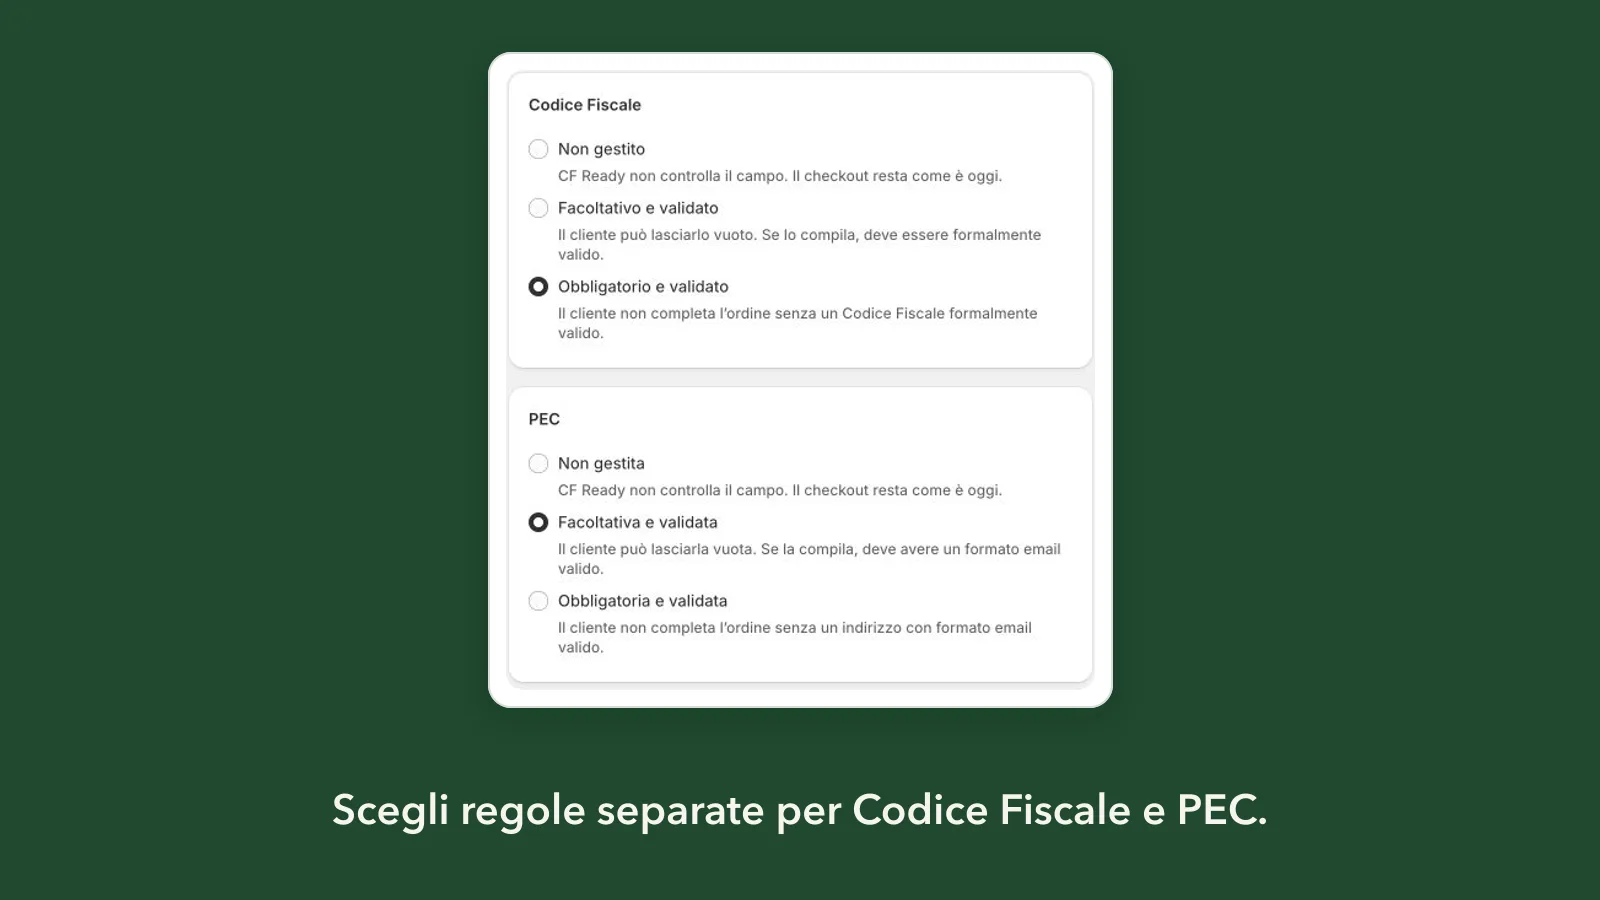
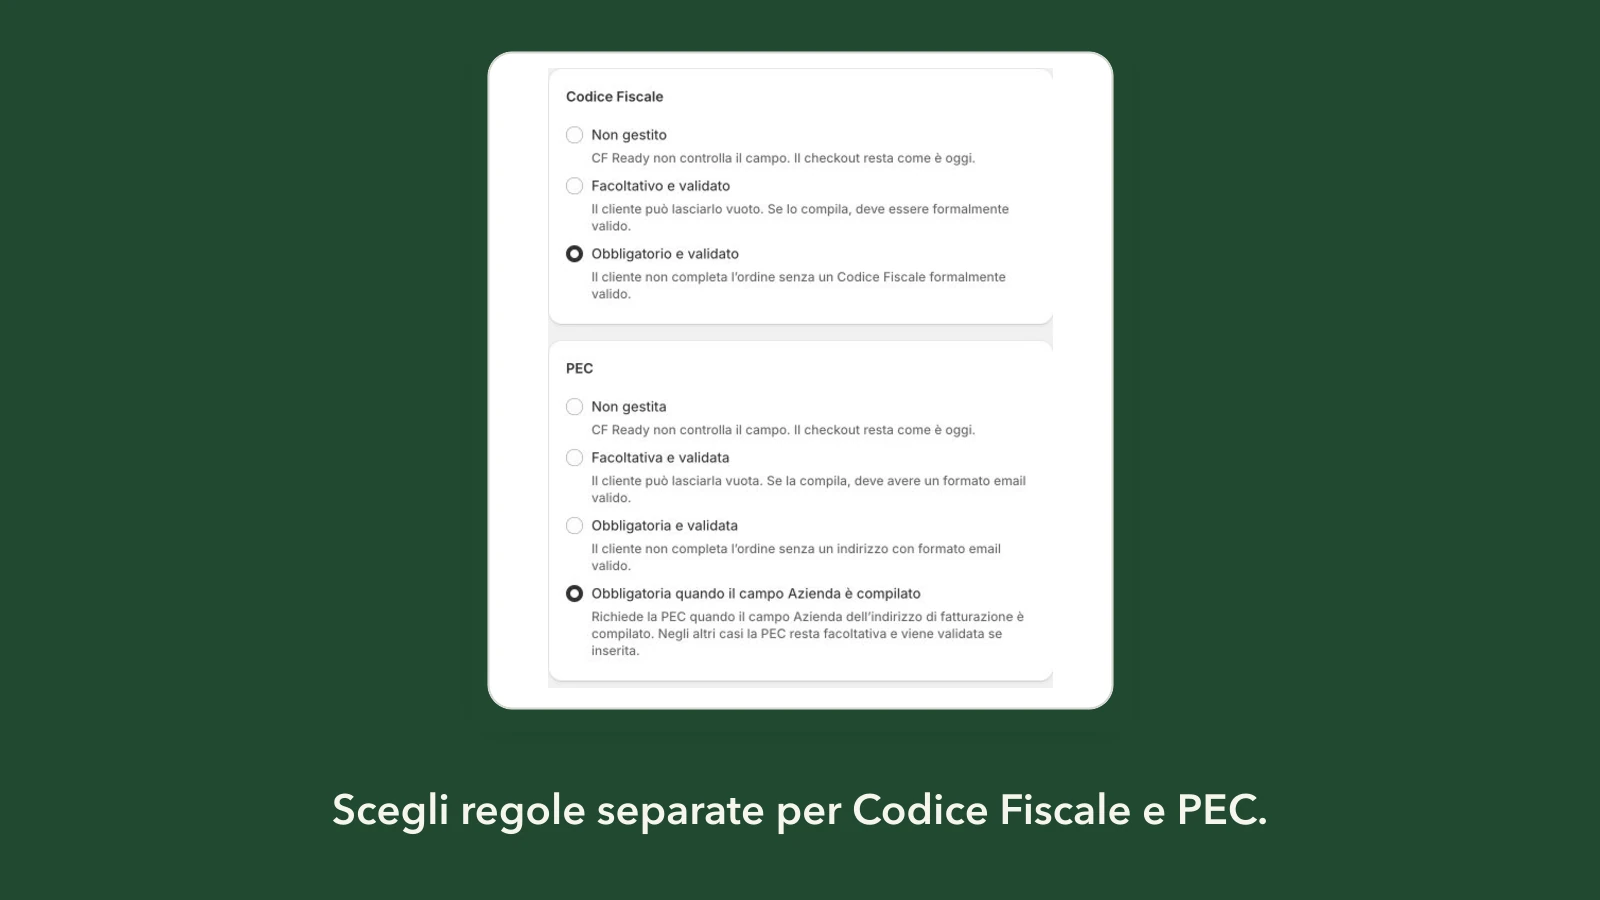
docs: aggiorna il sito per la PEC condizionale

Changed region(s): [[0.3125, 0.0933, 0.6562, 0.3733], [0.3125, 0.4044, 0.6562, 0.7467], [0.3125, 0.7778, 0.6875, 0.8089]]

diff --git a/site/index.html b/site/index.html
@@ -103,7 +103,7 @@
       <div class="product-gallery">
         <figure><a class="shot-link" href="assets/home-stato.webp" aria-label="Apri la schermata a dimensione intera"><img class="product-shot" src="assets/home-stato.webp" width="1600" height="900" loading="lazy" decoding="async" alt="Stato della validazione e prossimo passo"></a><figcaption>Controlla lo stato e attiva le regole quando sei pronto.</figcaption></figure>
         <details class="product-detail"><summary>Impostazioni separate per Codice Fiscale e PEC</summary>
-        <figure><a class="shot-link" href="assets/regole-cf-pec.webp" aria-label="Apri la schermata a dimensione intera"><img class="product-shot" src="assets/regole-cf-pec.webp" width="1600" height="900" loading="lazy" decoding="async" alt="Impostazioni separate per Codice Fiscale e PEC"></a><figcaption>Decidi quali campi richiedere e quali lasciare facoltativi.</figcaption></figure>
+        <figure><a class="shot-link" href="assets/regole-cf-pec.webp" aria-label="Apri la schermata a dimensione intera"><img class="product-shot" src="assets/regole-cf-pec.webp" width="1600" height="900" loading="lazy" decoding="async" alt="Impostazioni separate per Codice Fiscale e PEC, inclusa la PEC obbligatoria quando Azienda è compilato"></a><figcaption>Puoi richiedere la PEC soltanto quando il cliente compila Azienda.</figcaption></figure>
         </details>
         <details class="product-detail"><summary>Simulatore delle regole checkout</summary>
         <figure><a class="shot-link" href="assets/simulatore-checkout.webp" aria-label="Apri la schermata a dimensione intera"><img class="product-shot" src="assets/simulatore-checkout.webp" width="1600" height="900" loading="lazy" decoding="async" alt="Simulatore delle regole checkout"></a><figcaption>Prova le regole nel simulatore prima di attivarle.</figcaption></figure>

diff --git a/site/en/index.html b/site/en/index.html
@@ -104,7 +104,7 @@
       <div class="product-gallery">
         <figure><a class="shot-link" href="../assets/home-stato.webp" aria-label="Open full-size screenshot"><img class="product-shot" src="../assets/home-stato.webp" width="1600" height="900" loading="lazy" decoding="async" alt="Validation status and next step"></a><figcaption>Check the status and activate your rules when you are ready.</figcaption></figure>
         <details class="product-detail"><summary>Separate settings for Codice Fiscale and PEC</summary>
-        <figure><a class="shot-link" href="../assets/regole-cf-pec.webp" aria-label="Open full-size screenshot"><img class="product-shot" src="../assets/regole-cf-pec.webp" width="1600" height="900" loading="lazy" decoding="async" alt="Separate settings for Codice Fiscale and PEC"></a><figcaption>Choose which fields to require and which to leave optional.</figcaption></figure>
+        <figure><a class="shot-link" href="../assets/regole-cf-pec.webp" aria-label="Open full-size screenshot"><img class="product-shot" src="../assets/regole-cf-pec.webp" width="1600" height="900" loading="lazy" decoding="async" alt="Separate settings for Codice Fiscale and PEC, including PEC required when Company is filled in"></a><figcaption>You can require PEC only when the customer fills in Company.</figcaption></figure>
         </details>
         <details class="product-detail"><summary>Checkout rules simulator</summary>
         <figure><a class="shot-link" href="../assets/simulatore-checkout.webp" aria-label="Open full-size screenshot"><img class="product-shot" src="../assets/simulatore-checkout.webp" width="1600" height="900" loading="lazy" decoding="async" alt="Checkout rules simulator"></a><figcaption>Try your rules in the simulator before activating them.</figcaption></figure>
